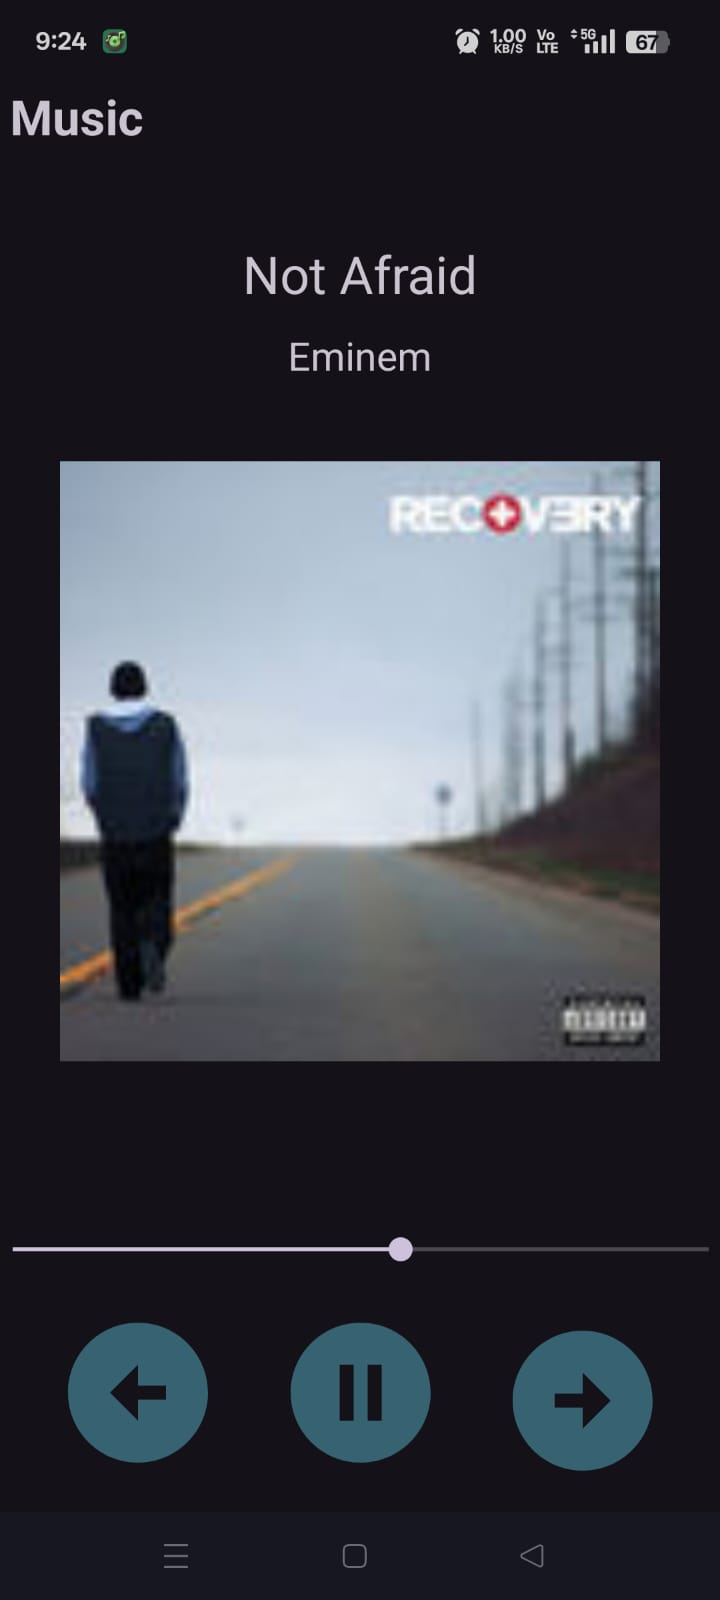
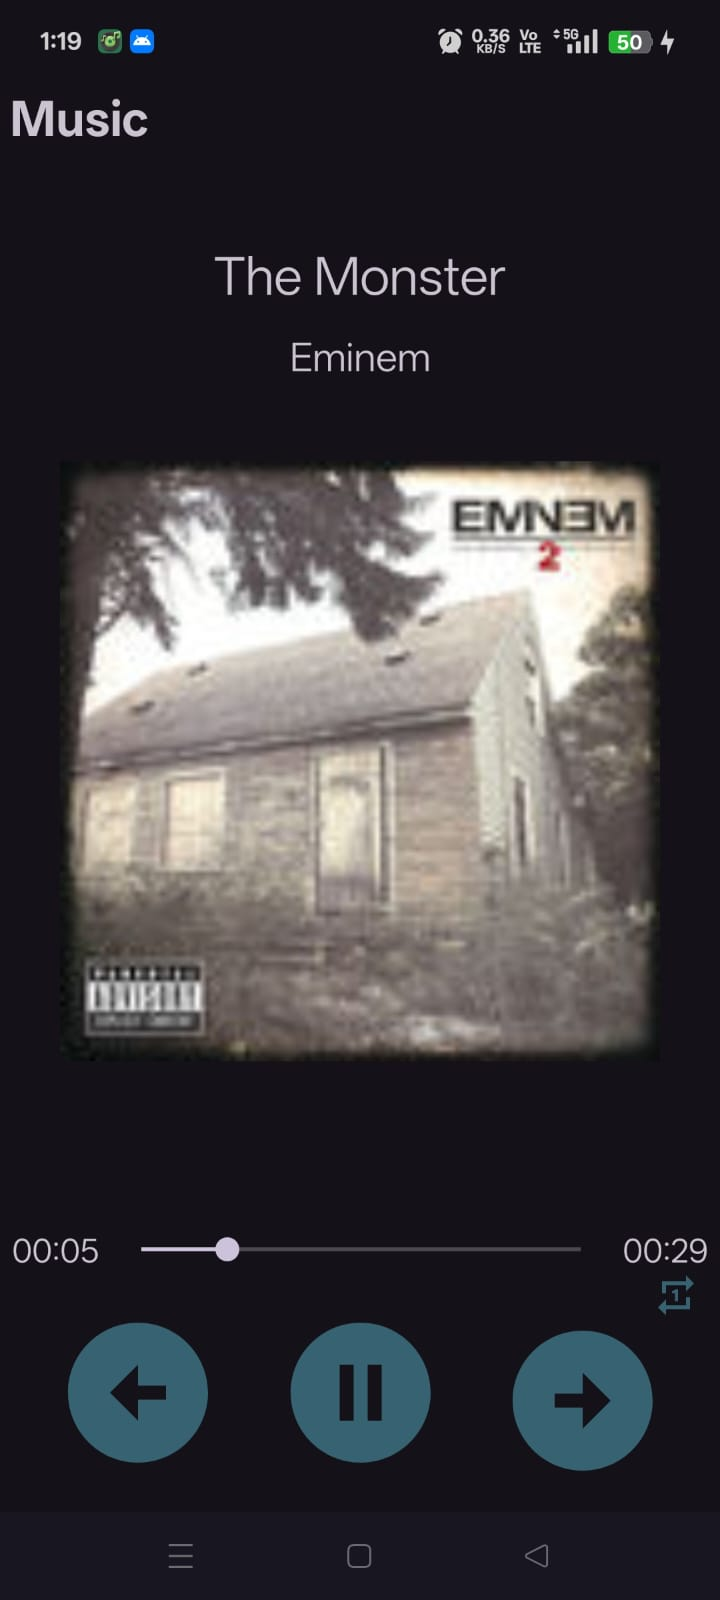
improved display ui

diff --git a/app/src/main/java/com/example/music/fragments/MusicDisplay.kt b/app/src/main/java/com/example/music/fragments/MusicDisplay.kt
@@ -27,51 +27,66 @@ import kotlinx.coroutines.Runnable
 
 
 class MusicDisplay : Fragment() {
-//    register for updating the ui
-private var seekBarMaxSet = false
-    private val  playReceiver  = object : BroadcastReceiver(){
-    override fun onReceive(context: Context?, intent: Intent?) {
-        if (intent?.action == "com.example.music.PLAYER_UPDATE") {
-            val isplay = intent.getBooleanExtra("is_playing", false)
-            val position = intent.getIntExtra("position", 0)
-            val duration = intent.getIntExtra("duration", 0)
+    //    register for updating the ui
+    private var seekBarMaxSet = false
+    private val playReceiver = object : BroadcastReceiver() {
+        override fun onReceive(context: Context?, intent: Intent?) {
+            if (intent?.action == "com.example.music.PLAYER_UPDATE") {
+                val isplay = intent.getBooleanExtra("is_playing", false)
+                val position = intent.getIntExtra("position", 0)
+                val duration = intent.getIntExtra("duration", 0)
 
 
-            if (!seekBarMaxSet && duration > 0) {
-                seekBar.max = duration
-                seekBarMaxSet = true
+                if (!seekBarMaxSet && duration > 0) {
+                    seekBar.max = duration
+                    tvDurationView.text = formatMillis(duration)
+                    seekBarMaxSet = true
+                }
+
+                // is position reaches seekbar max
+                if (seekBarMaxSet && position == seekBar.max) {
+                    if (isRepeatOneSong) {
+                        loadTrack(trackList[currentIndex])
+                    } else {
+                        playRightSong()
+                    }
+                }
+
+                if (!isUserSeeking) {
+                    seekBar.progress = position
+                    tvCurrentView.text = formatMillis(position)
+                }
+
+                playBtn.setImageResource(
+                    if (isplay) R.drawable.baseline_pause_circle_24 else R.drawable.baseline_play_circle_24
+                )
+                this@MusicDisplay.isPlaying = isplay
             }
-
-            if (!isUserSeeking) {
-                seekBar.progress = position
-            }
-
-            playBtn.setImageResource(
-                if (isplay) R.drawable.baseline_pause_circle_24 else R.drawable.baseline_play_circle_24
-            )
-          this@MusicDisplay.isPlaying = isplay
         }
+
     }
 
-}
-
-//    views
+    //    views
+    private lateinit var tvCurrentView: TextView
+    private lateinit var tvDurationView: TextView
     private lateinit var titleView: TextView
     private lateinit var artistView: TextView
     private lateinit var imageView: ImageView
     private lateinit var seekBar: SeekBar
-    private lateinit var playBtn : ImageButton
-    private lateinit var leftplayBtn : ImageButton
-    private lateinit var rightplayBtn : ImageButton
+    private lateinit var playBtn: ImageButton
+    private lateinit var leftplayBtn: ImageButton
+    private lateinit var rightplayBtn: ImageButton
+    private lateinit var repeatOneBtn: ImageButton
 
-// media player
+    // media player
     private var isPlaying = false
     private var handler = Handler(Looper.getMainLooper())
     private var isUserSeeking = false
+    private var isRepeatOneSong = false
 
 
-    private lateinit var trackList : ArrayList<Data>
-    private  var currentIndex : Int = 0
+    private lateinit var trackList: ArrayList<Data>
+    private var currentIndex: Int = 0
 
     override fun onCreateView(
         inflater: LayoutInflater, container: ViewGroup?,
@@ -96,53 +111,53 @@ private var seekBarMaxSet = false
         playBtn = view.findViewById(R.id.playBtn)
         leftplayBtn = view.findViewById(R.id.leftPlay)
         rightplayBtn = view.findViewById(R.id.rightPlay)
+        tvCurrentView = view.findViewById(R.id.tvCurrentTime)
+        tvDurationView = view.findViewById(R.id.tvDurationTime)
+        repeatOneBtn = view.findViewById(R.id.loopBtnOne)
 
         super.onViewCreated(view, savedInstanceState)
 
-         arguments?.let {
-             if(Build.VERSION.SDK_INT >= Build.VERSION_CODES.TIRAMISU){
-                 trackList = (arguments?.getSerializable("trackList", ArrayList::class.java) as? ArrayList<Data>)!!
-             }else{
-                 @Suppress("DEPRECATION")
-                 trackList = (arguments?.getSerializable("trackList") as? ArrayList<Data>)!!
-             }
+        arguments?.let {
+            if (Build.VERSION.SDK_INT >= Build.VERSION_CODES.TIRAMISU) {
+                trackList = (arguments?.getSerializable(
+                    "trackList",
+                    ArrayList::class.java
+                ) as? ArrayList<Data>)!!
+            } else {
+                @Suppress("DEPRECATION")
+                trackList = (arguments?.getSerializable("trackList") as? ArrayList<Data>)!!
+            }
 
-             currentIndex = arguments?.getInt("currentIndex")!!
-         }
+            currentIndex = arguments?.getInt("currentIndex")!!
+        }
 
+        setListener()
+
+        loadTrack(trackList[currentIndex])
+    }
+
+    private fun setListener(){
         playBtn.setOnClickListener {
             if (isPlaying) {
-                 sendMusicCommand(MediaService.ACTION_PAUSE)
+                sendMusicCommand(MediaService.ACTION_PAUSE)
                 playBtn.setImageResource(R.drawable.baseline_play_circle_24)
-            }else{
+            } else {
                 sendMusicCommand(MediaService.ACTION_PLAY)
                 playBtn.setImageResource(R.drawable.baseline_pause_circle_24)
             }
-            isPlaying =!isPlaying
+            isPlaying = !isPlaying
         }
 
         leftplayBtn.setOnClickListener {
-            if(currentIndex>0){
-                currentIndex--
-                MusicSession.currentIndex = currentIndex
-                MusicSession.fullTrackList = trackList
-                MusicSession.currentTrack = trackList[currentIndex]
-                loadTrack(trackList[currentIndex])
-            }
+            playLeftSong()
         }
 
         rightplayBtn.setOnClickListener {
-            if(currentIndex < trackList.size - 1){
-                currentIndex++
-                MusicSession.currentIndex = currentIndex
-                MusicSession.fullTrackList = trackList
-                MusicSession.currentTrack = trackList[currentIndex]
-                loadTrack(trackList[currentIndex])
-            }
+            playRightSong()
         }
 
 
-        seekBar.setOnSeekBarChangeListener(object : SeekBar.OnSeekBarChangeListener{
+        seekBar.setOnSeekBarChangeListener(object : SeekBar.OnSeekBarChangeListener {
             var finalProgress = 0
             override fun onProgressChanged(
                 seekBar: SeekBar?,
@@ -157,25 +172,51 @@ private var seekBarMaxSet = false
             }
 
             override fun onStartTrackingTouch(seekBar: SeekBar?) {
-              isUserSeeking = true
+                isUserSeeking = true
             }
 
             override fun onStopTrackingTouch(seekBar: SeekBar?) {
                 isUserSeeking = false
                 val intent = Intent(requireContext(), MediaService::class.java).apply {
                     action = MediaService.ACTION_SEEK
-                    putExtra("seek_pos",finalProgress)
+                    putExtra("seek_pos", finalProgress)
                 }
                 ContextCompat.startForegroundService(requireContext(), intent)
             }
 
+
         })
 
-        loadTrack(trackList[currentIndex])
+        repeatOneBtn.setOnClickListener {
+            isRepeatOneSong = !isRepeatOneSong
+
+            repeatOneBtn.alpha = if (isRepeatOneSong) 1f else 0.3f
+        }
+
+    }
+    private fun playLeftSong() {
+        if (currentIndex > 0) {
+            currentIndex--
+            MusicSession.currentIndex = currentIndex
+            MusicSession.fullTrackList = trackList
+            MusicSession.currentTrack = trackList[currentIndex]
+            loadTrack(trackList[currentIndex])
+        }
     }
 
+    private fun playRightSong() {
+        if (currentIndex < trackList.size - 1) {
+            currentIndex++
+            MusicSession.currentIndex = currentIndex
+            MusicSession.fullTrackList = trackList
+            MusicSession.currentTrack = trackList[currentIndex]
+            loadTrack(trackList[currentIndex])
+        }
+    }
+
+
     private fun loadTrack(track: Data) {
-        sendMusicCommand(MediaService.ACTION_PLAY,track)
+        sendMusicCommand(MediaService.ACTION_PLAY, track)
         titleView.text = track.title
         artistView.text = track.artist.name
         Picasso.get().load(track.album.cover).into(imageView)
@@ -185,19 +226,18 @@ private var seekBarMaxSet = false
         playBtn.setImageResource(R.drawable.baseline_pause_circle_24)
     }
 
-    private fun sendMusicCommand(action:String, track: Data?=null){
+    private fun sendMusicCommand(action: String, track: Data? = null) {
         val intent = Intent(requireContext(), MediaService::class.java).apply {
             this.action = action
             track?.let {
-                putExtra("track_url",track.preview)
-                putExtra("title",track.title)
-                putExtra("artist",track.artist.name)
+                putExtra("track_url", track.preview)
+                putExtra("title", track.title)
+                putExtra("artist", track.artist.name)
             }
         }
         ContextCompat.startForegroundService(requireContext(), intent)
 
     }
-
 
 
     override fun onDestroy() {
@@ -206,6 +246,12 @@ private var seekBarMaxSet = false
         LocalBroadcastManager.getInstance(requireContext()).unregisterReceiver(playReceiver)
     }
 
+    fun formatMillis(millis: Int): String {
+        val totalSeconds = millis / 1000
+        val minutes = totalSeconds / 60
+        val seconds = totalSeconds % 60
+        return "%02d:%02d".format(minutes, seconds)
+    }
 
 
 }

diff --git a/app/src/main/java/com/example/music/MainActivity.kt b/app/src/main/java/com/example/music/MainActivity.kt
@@ -10,7 +10,9 @@ import androidx.appcompat.app.AppCompatActivity
 import androidx.core.app.ActivityCompat
 import androidx.core.content.ContextCompat
 import androidx.core.view.ViewCompat
+import androidx.core.view.WindowCompat
 import androidx.core.view.WindowInsetsCompat
+import androidx.core.view.WindowInsetsControllerCompat
 import com.example.music.data.MyData
 import com.example.music.fragments.MusicList
 import retrofit2.Call
@@ -25,11 +27,7 @@ class MainActivity : AppCompatActivity() {
         super.onCreate(savedInstanceState)
         enableEdgeToEdge()
         setContentView(R.layout.activity_main)
-        ViewCompat.setOnApplyWindowInsetsListener(findViewById(R.id.main)) { v, insets ->
-            val systemBars = insets.getInsets(WindowInsetsCompat.Type.systemBars())
-            v.setPadding(systemBars.left, systemBars.top, systemBars.right, systemBars.bottom)
-            insets
-        }
+
 
         if (Build.VERSION.SDK_INT>=Build.VERSION_CODES.TIRAMISU){
             if (ContextCompat.checkSelfPermission(this, android.Manifest.permission.POST_NOTIFICATIONS) != PackageManager.PERMISSION_GRANTED ){
@@ -41,7 +39,20 @@ class MainActivity : AppCompatActivity() {
             }
         }
 
-      if (savedInstanceState == null){
+        WindowInsetsControllerCompat(window,window.decorView).apply {
+            isAppearanceLightStatusBars = false
+            isAppearanceLightNavigationBars = false
+        }
+
+
+        ViewCompat.setOnApplyWindowInsetsListener(findViewById(R.id.main)) { v, insets ->
+            val systemBars = insets.getInsets(WindowInsetsCompat.Type.systemBars())
+            v.setPadding(systemBars.left, systemBars.top, systemBars.right, systemBars.bottom)
+            insets
+        }
+
+
+        if (savedInstanceState == null){
           supportFragmentManager.beginTransaction()
               .replace(R.id.containerFragment, MusicList())
               .commit()

diff --git a/app/src/main/java/com/example/music/fragments/MusicList.kt b/app/src/main/java/com/example/music/fragments/MusicList.kt
@@ -9,6 +9,7 @@ import android.view.ViewGroup
 import android.widget.ImageButton
 import android.widget.ImageView
 import android.widget.TextView
+import androidx.core.view.ViewCompat
 import androidx.recyclerview.widget.LinearLayoutManager
 import androidx.recyclerview.widget.RecyclerView
 import com.example.music.AdapterR
@@ -41,6 +42,7 @@ class MusicList : Fragment() {
 
     override fun onViewCreated(view: View, savedInstanceState: Bundle?) {
         super.onViewCreated(view, savedInstanceState)
+
 
         recycleView = view.findViewById(R.id.recycleViewF1)
         recycleView.layoutManager = LinearLayoutManager(requireContext())

diff --git a/app/src/main/java/com/example/music/MediaService.kt b/app/src/main/java/com/example/music/MediaService.kt
@@ -69,6 +69,7 @@ class MediaService : Service(){
         return START_NOT_STICKY
     }
 
+
     private fun playMusic(url: String){
         mediaPlayer?.release()
         mediaPlayer = MediaPlayer().apply {
